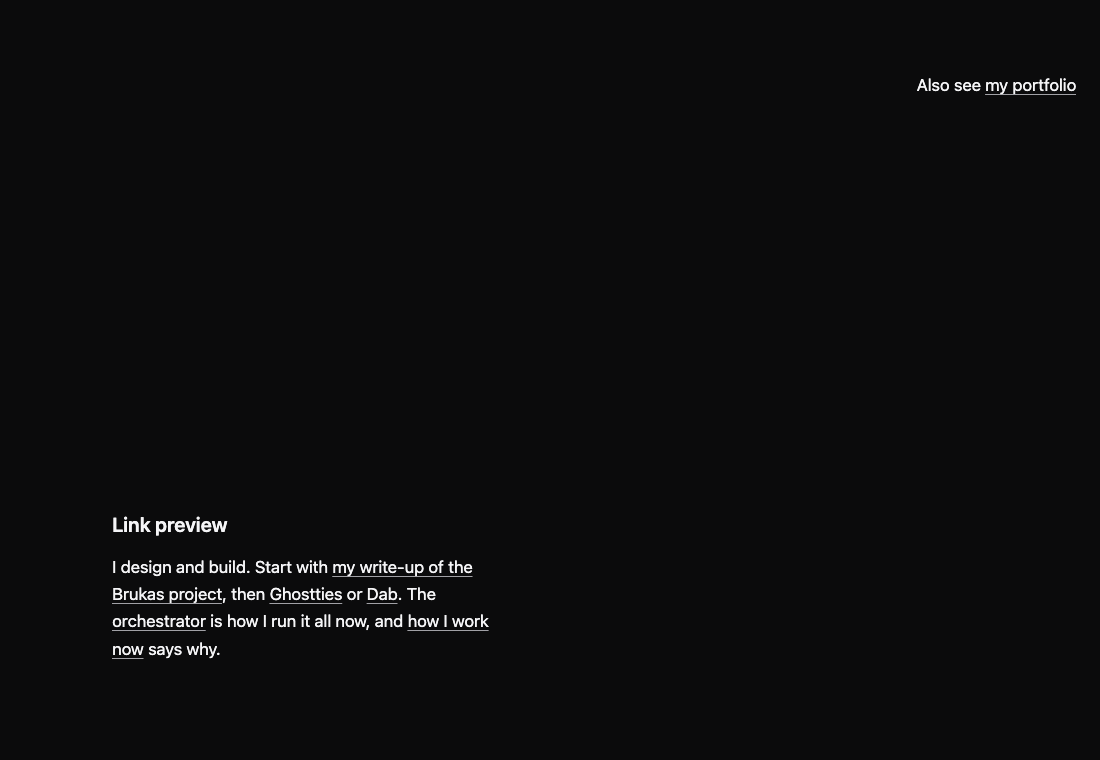
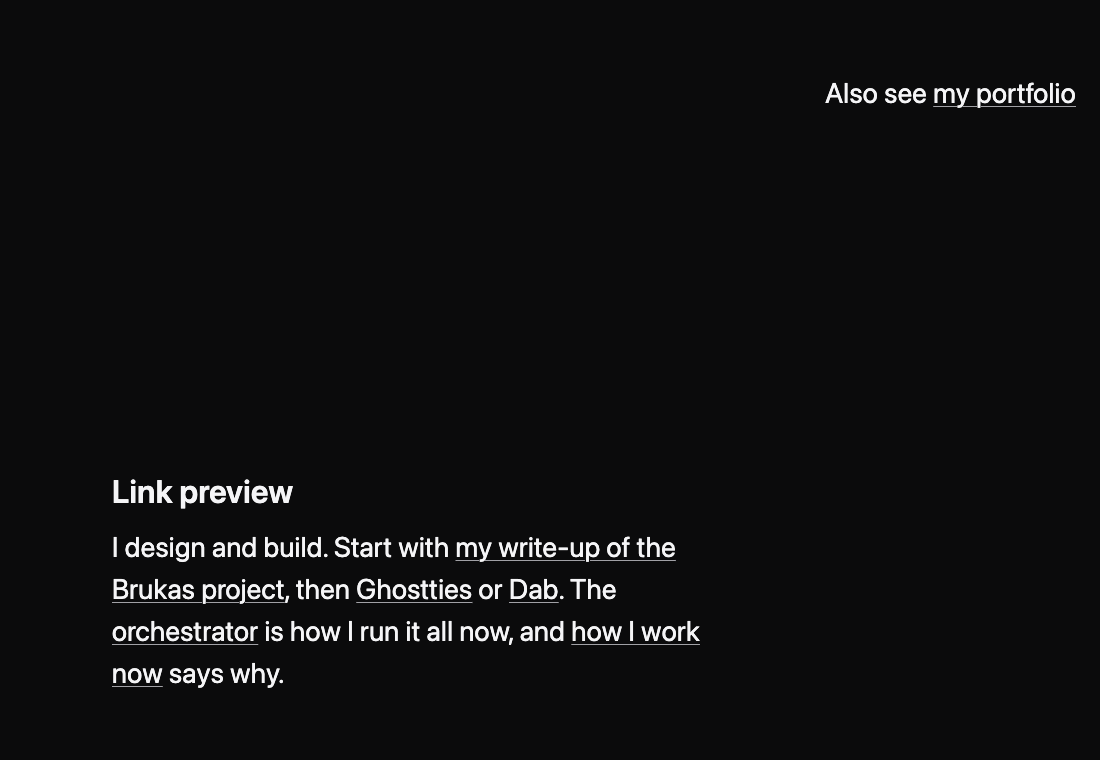
feat(canvas): link preview tiles load a canvas host page with larger type
New example/canvas/link-preview-host.html runs the real link-preview page
with type sized to the 1:1 tile (28px prose at desktop width, 19px floor
at phone width). Both link preview tiles point at it; link-preview.html
and src/ are untouched. Posters recaptured headless. BACKLOG 55.

Claude-Session: https://claude.ai/code/session_01Rjcb9FRoqVM264HDDK8Yg5

Changed region(s): [[0.0927, 0.6355, 0.6491, 0.9079], [0.7418, 0.0908, 0.9891, 0.1513]]

diff --git a/example/canvas/link-preview-host.css b/example/canvas/link-preview-host.css
@@ -1,0 +1,24 @@
+/*
+ * Larger type for the canvas link-preview tiles only. Sizes follow the
+ * iframe's width, so a phone-width canvas still fits the prose in the frame.
+ * Selectors are one step more specific than link-preview.css, so order of
+ * injection doesn't matter.
+ */
+/* The larger heading pushes the first line down; the top padding gives
+ * that back, keeping the full card's room above it (520 card + 8 gap + 16
+ * gutter) while the last line clears the 760px frame. */
+body .lp-page {
+  max-width: 640px;
+  padding-top: 472px;
+}
+
+body .lp-page h1 {
+  font-size: clamp(22px, 3vw, 32px);
+  line-height: 1.2;
+}
+
+body .lp-page p,
+body .lp-corner {
+  font-size: clamp(19px, 2.6vw, 28px);
+  line-height: 1.5;
+}

diff --git a/example/canvas/tiles.ts b/example/canvas/tiles.ts
@@ -393,7 +393,7 @@ const THEME_TILES: CanvasTile[] = [
     caption: "<Root preview> · ?dark=1",
     viewport: "fluid",
     fixedTheme: true,
-    src: "link-preview.html?dark=1",
+    src: "canvas/link-preview-host.html?dark=1",
   },
 ];
 
@@ -520,7 +520,7 @@ const LINK_PREVIEW_TILES: CanvasTile[] = [
     label: "Link preview",
     caption: "<Root preview>",
     viewport: "fluid",
-    src: "link-preview.html?dark=0",
+    src: "canvas/link-preview-host.html?dark=0",
   },
 ];
 

diff --git a/example/vite.config.ts b/example/vite.config.ts
@@ -51,6 +51,7 @@ export default defineConfig({
         video: resolve(__dirname, "video.html"),
         buttons: resolve(__dirname, "buttons.html"),
         linkPreview: resolve(__dirname, "link-preview.html"),
+        linkPreviewHost: resolve(__dirname, "canvas/link-preview-host.html"),
         focus: resolve(__dirname, "fixtures/focus.html"),
       },
     },

diff --git a/example/canvas/link-preview-host.html b/example/canvas/link-preview-host.html
@@ -1,0 +1,12 @@
+<!doctype html>
+<html lang="en">
+  <head>
+    <meta charset="UTF-8" />
+    <meta name="viewport" content="width=device-width, initial-scale=1.0" />
+    <title>vista-sheet — link preview (canvas host)</title>
+  </head>
+  <body>
+    <div id="root"></div>
+    <script type="module" src="./link-preview-host.ts"></script>
+  </body>
+</html>

diff --git a/example/canvas/link-preview-host.ts b/example/canvas/link-preview-host.ts
@@ -1,0 +1,8 @@
+/**
+ * Canvas-only host for the link preview tiles: the real /link-preview.html
+ * page, with its type set larger so the 1:1 tile doesn't read as a small
+ * paragraph in an empty frame. The card, its springs and every package
+ * value are untouched.
+ */
+import "../link-preview/main.tsx";
+import "./link-preview-host.css";
